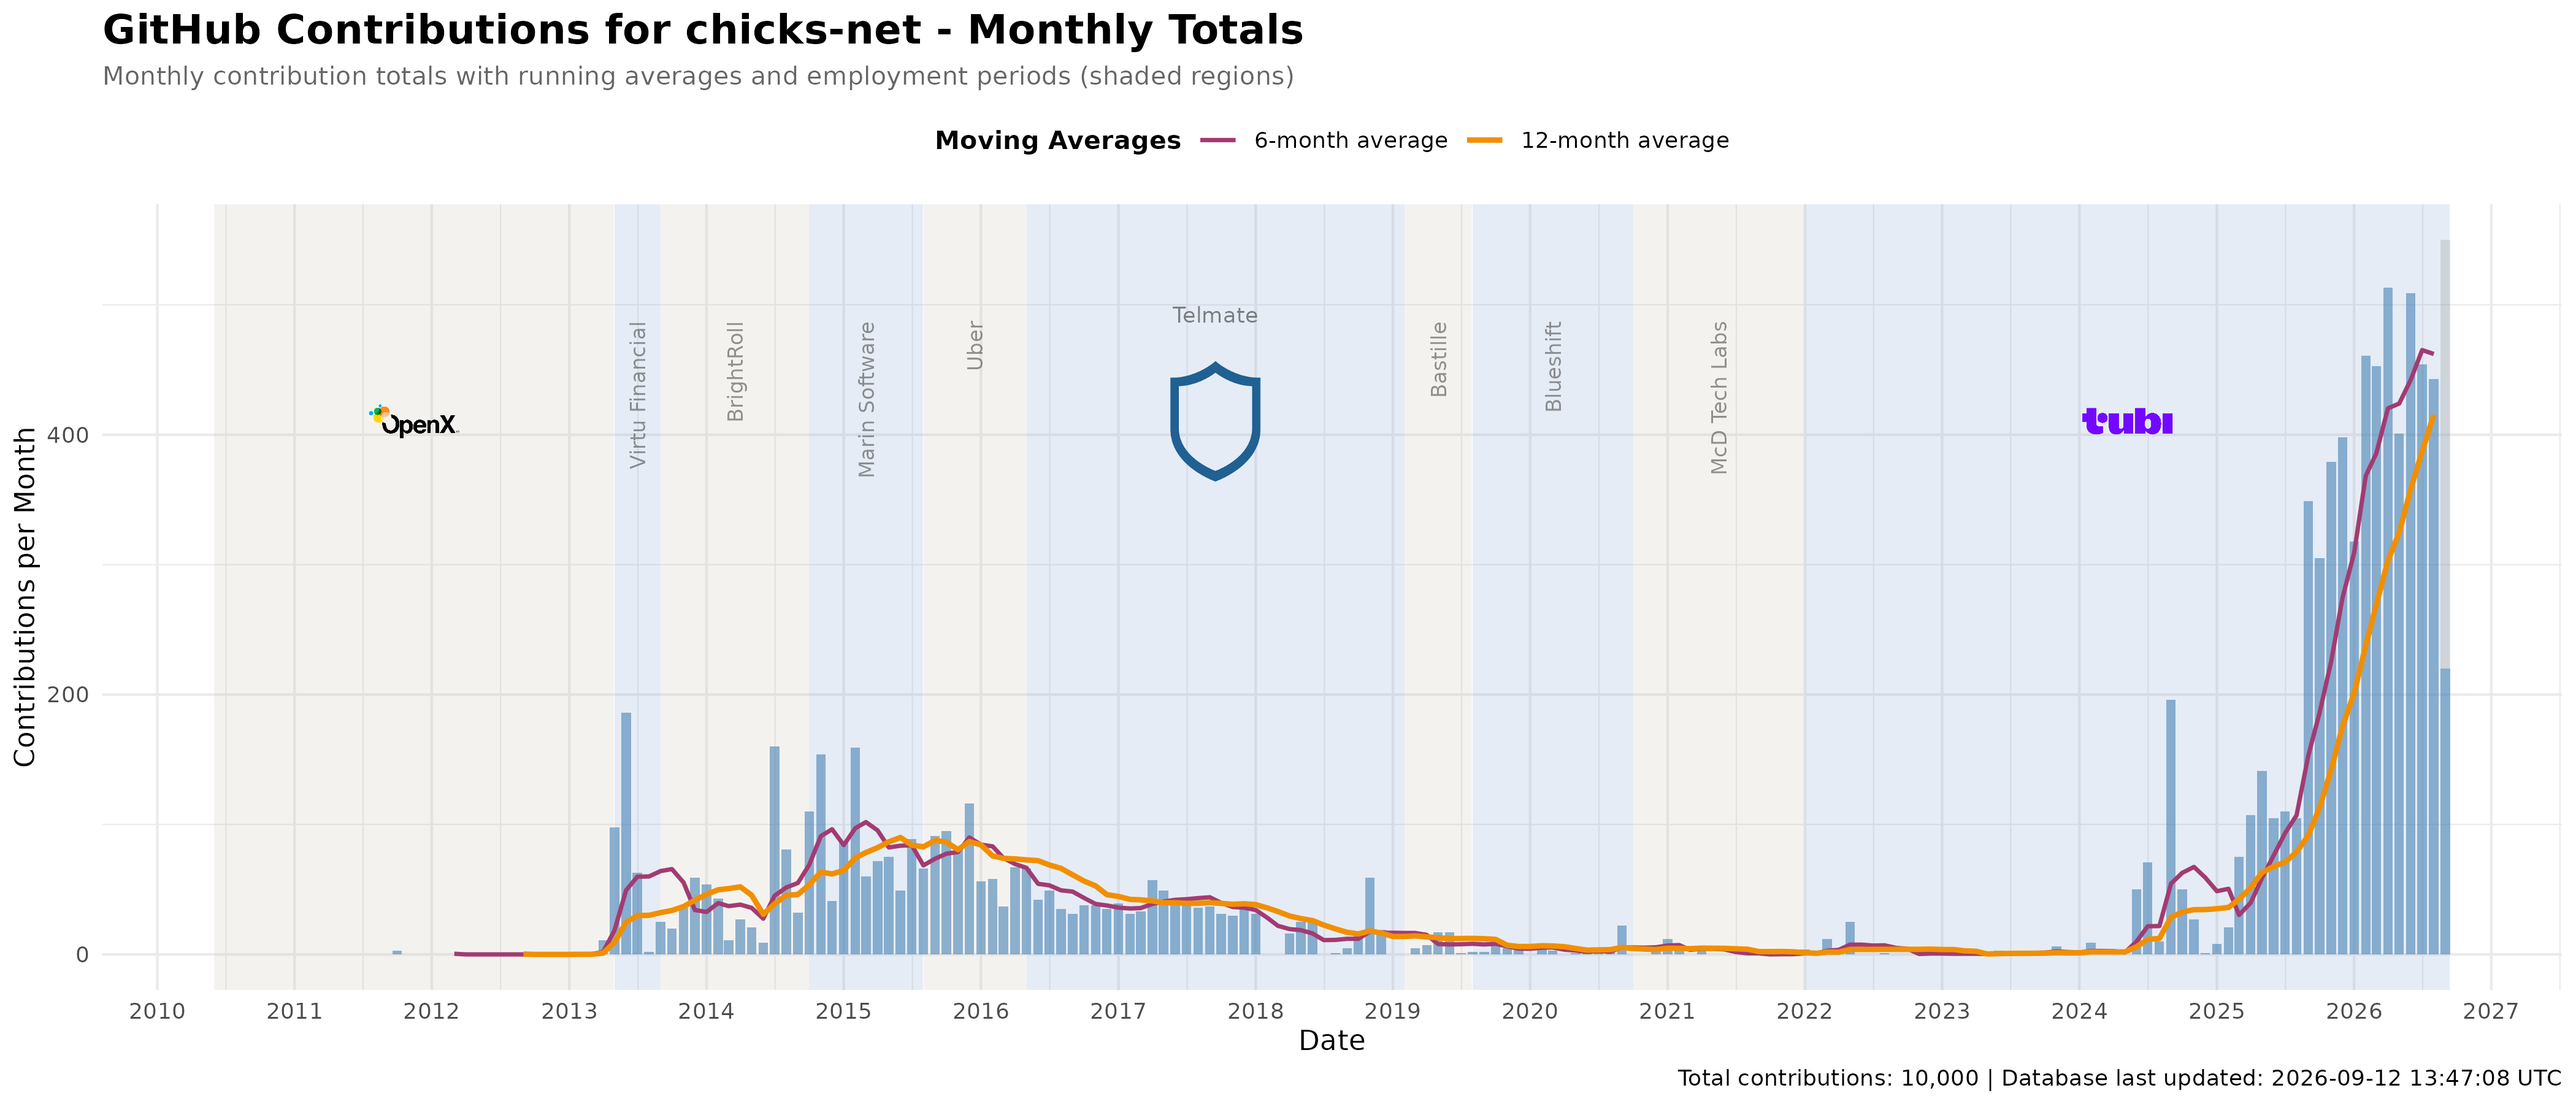
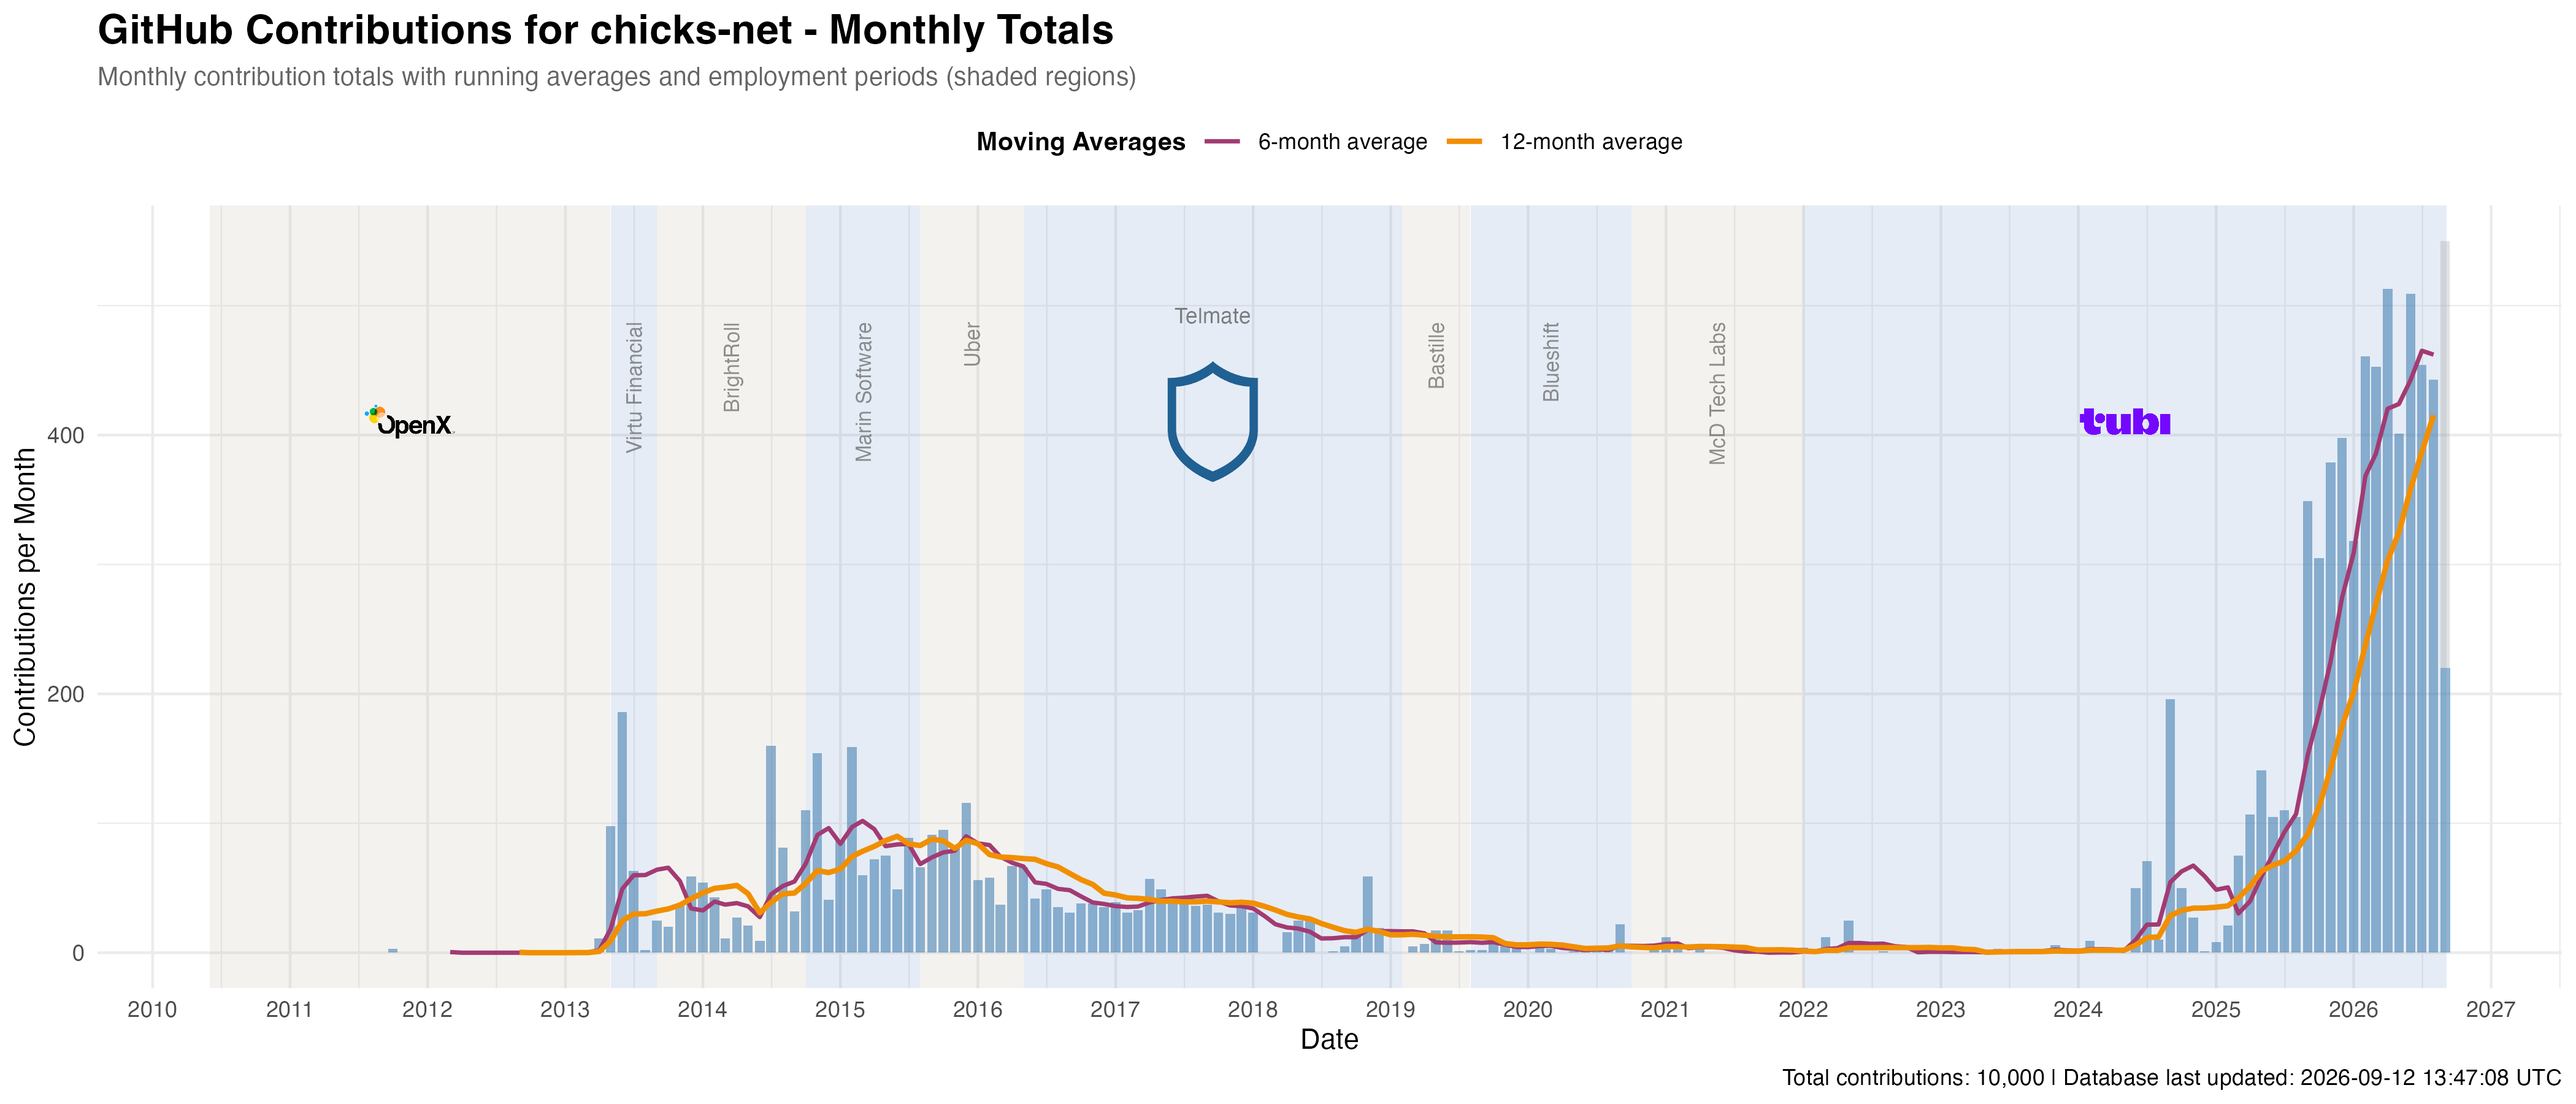
🛑 [github] end of job at Tubi

diff --git a/individuals/chicks/github/contributions-analysis/LinearWalkthrough.md b/individuals/chicks/github/contributions-analysis/LinearWalkthrough.md
@@ -178,11 +178,15 @@ p <- ggplot(plot_data, aes(x = date)) +
 ```r
 geom_vline(xintercept = as.Date("2025-03-10"), linetype = "dashed", color = "red", alpha = 0.6) +
 geom_vline(xintercept = as.Date("2025-08-29"), linetype = "dashed", color = "red", alpha = 0.6) +
+geom_vline(xintercept = as.Date("2026-09-04"), linetype = "dashed", color = "red", alpha = 0.6) +
 annotate("text", x = as.Date("2025-03-10"), y = max(plot_data$contribution_count, na.rm = TRUE) * 0.95,
-          label = "commitment to daily github", angle = 90, hjust = 1, vjust = -1.5,
+          label = "commitment to daily github", angle = 90, hjust = 1, vjust = -0.3,
           size = 3, color = "red", alpha = 0.7) +
 annotate("text", x = as.Date("2025-08-29"), y = max(plot_data$contribution_count, na.rm = TRUE) * 0.85,
-          label = "started using Claude Code", angle = 90, hjust = 1, vjust = -1.5,
+          label = "started using Claude Code", angle = 90, hjust = 1, vjust = -0.3,
+          size = 3, color = "red", alpha = 0.7) +
+annotate("text", x = as.Date("2026-09-04"), y = max(plot_data$contribution_count, na.rm = TRUE) * 0.75,
+          label = "last day at Tubi", angle = 90, hjust = 1, vjust = -0.3,
           size = 3, color = "red", alpha = 0.7)
 ```
 
